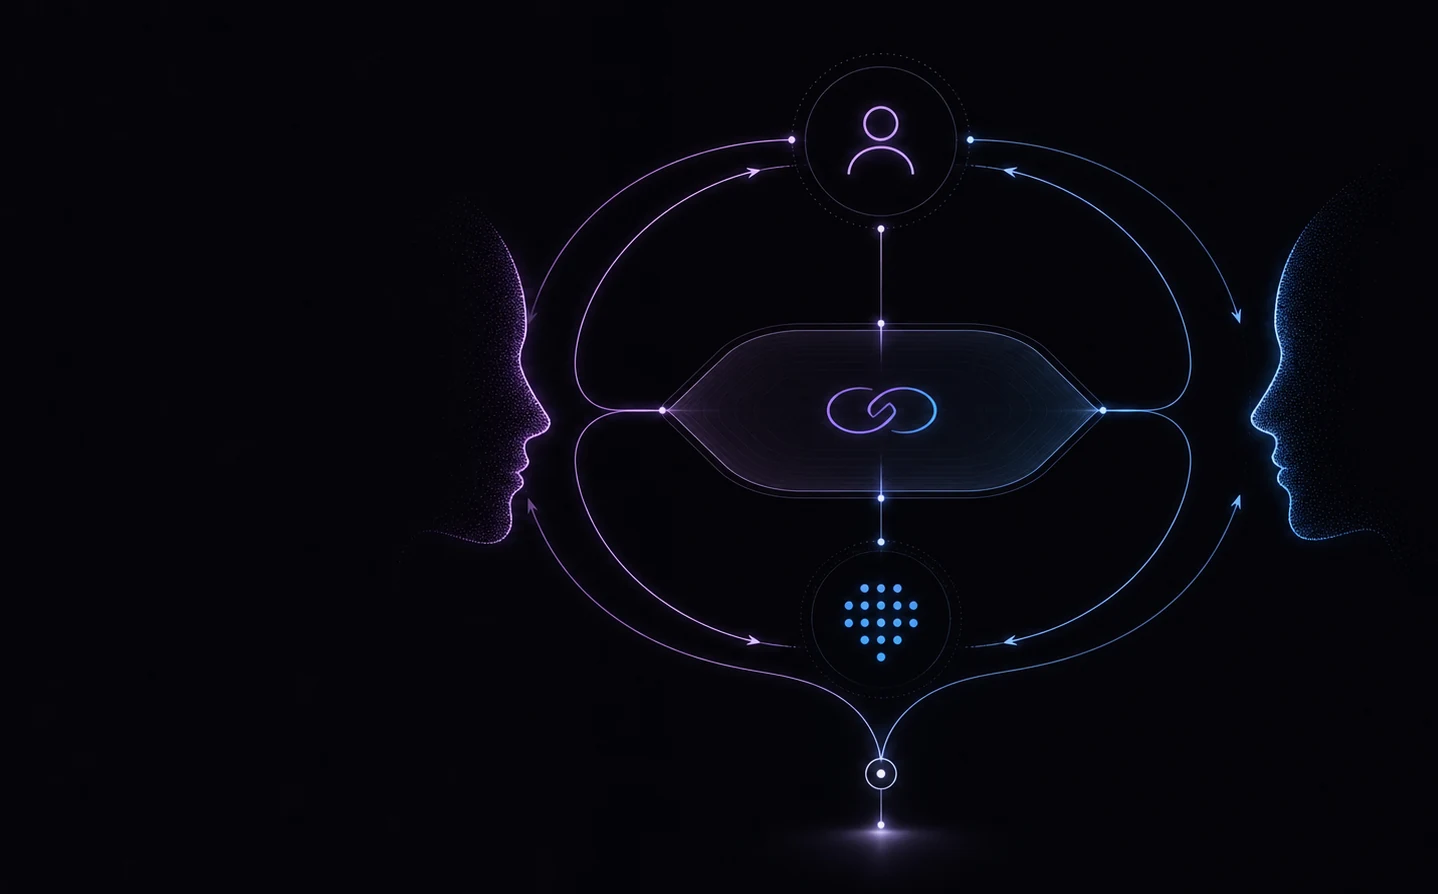
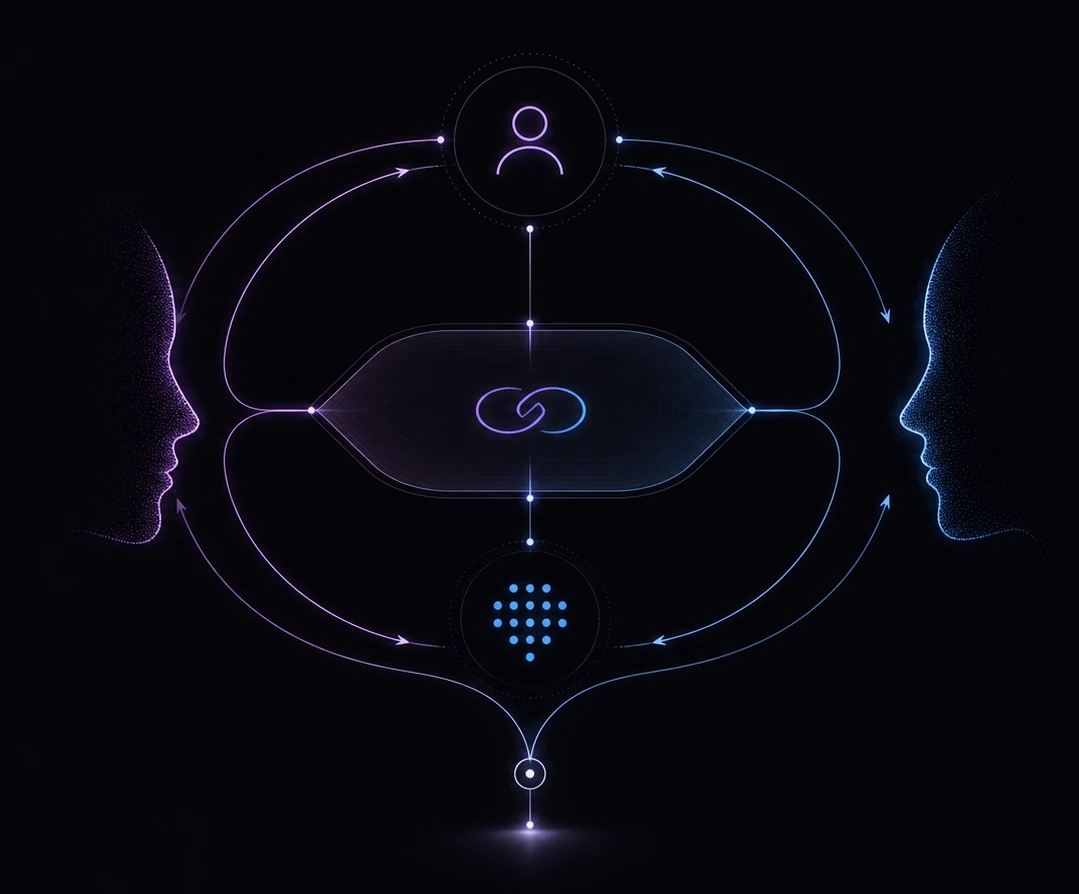
Fix crop asymmetry: left face starts at ~36%, not the ~20% I estimated
My earlier crop bounds (12%-98%) assumed the left face began around 20%,
but objective measurement (per-column max brightness, then visually
verified with bound lines drawn on the image before committing) showed
real content starts at 35.8% -- I'd left a huge unnecessary margin on
the left (24 points) vs almost none on the right (2 points), exactly
matching the asymmetry reported.

Re-cropped to 33%-97.5% (verified visually first this time), all label
positions recomputed via the same affine transform. Image now fills its
panel edge to edge (1px gap = just the border) with no h1 overlap at
1792px, confirmed via DOM geometry.

diff --git a/public/styles.css b/public/styles.css
@@ -83,17 +83,17 @@ body:after{content:'';position:fixed;left:var(--mx,50vw);top:var(--my,50vh);widt
 
 /* Hero diagram: real image + real HTML labels overlaid at matching coordinates */
 .entity-orbit{position:relative;min-width:0}
-.amoris-diagram{position:relative;width:100%;aspect-ratio:1438/894;border-radius:14px;overflow:hidden;border:1px solid rgba(255,255,255,.1);box-shadow:0 0 0 1px rgba(255,255,255,.03),0 30px 80px rgba(0,0,0,.55),0 0 90px rgba(255,255,255,.05)}
+.amoris-diagram{position:relative;width:100%;aspect-ratio:1079/894;border-radius:14px;overflow:hidden;border:1px solid rgba(255,255,255,.1);box-shadow:0 0 0 1px rgba(255,255,255,.03),0 30px 80px rgba(0,0,0,.55),0 0 90px rgba(255,255,255,.05)}
 .amoris-diagram picture,.amoris-diagram img{display:block;width:100%;height:100%;object-fit:contain}
 .diagram-label{position:absolute;font-family:var(--mono);text-transform:uppercase;letter-spacing:.1em;color:var(--text);text-align:center;transform:translate(-50%,-50%);white-space:nowrap;pointer-events:none;background:rgba(6,6,7,.82);border-radius:3px;padding:3px 7px;backdrop-filter:blur(2px)}
-.label-human{left:65.35%;top:3.8%;font-size:0.72rem;font-weight:600}
-.label-ai-systems{left:65.35%;top:73.3%;font-size:0.72rem;font-weight:600}
-.label-core-pill{position:absolute;left:65.1%;top:41.6%;transform:translate(-50%,-50%);width:44%;background:rgba(6,6,8,.9);border-radius:16px;padding:8px 10px;text-align:center;pointer-events:none}
+.label-human{left:54.6%;top:3.8%;font-size:0.72rem;font-weight:600}
+.label-ai-systems{left:54.6%;top:73.3%;font-size:0.72rem;font-weight:600}
+.label-core-pill{position:absolute;left:54.3%;top:41.6%;transform:translate(-50%,-50%);width:59%;background:rgba(6,6,8,.9);border-radius:16px;padding:8px 10px;text-align:center;pointer-events:none}
 .label-core-title{position:static;transform:none;background:none;padding:0;font-family:var(--display);font-weight:600;text-transform:uppercase;letter-spacing:.03em;font-size:1rem;line-height:1.4;color:var(--ink);white-space:normal;display:block}
 .label-core-sub{position:static;transform:none;background:none;padding:0;margin-top:5px;font-size:0.6rem;letter-spacing:.06em;text-transform:none;display:block}
-.label-human-evolves{left:38.7%;top:58.85%;font-size:0.62rem}
-.label-ai-evolves{left:89.5%;top:58.85%;font-size:0.62rem}
-.label-decisions{left:65.35%;top:94.4%;font-size:0.62rem;font-weight:600}
+.label-human-evolves{left:19.1%;top:58.85%;font-size:0.62rem}
+.label-ai-evolves{left:86.8%;top:58.85%;font-size:0.62rem}
+.label-decisions{left:54.6%;top:94.4%;font-size:0.62rem;font-weight:600}
 @media (max-width:900px){.diagram-label{font-size:0.56rem !important;padding:2px 5px}.label-core-title{font-size:0.8rem !important}.label-core-pill{width:42%}}
 @media (max-width:680px){.label-human-evolves,.label-ai-evolves{display:none}}
 

diff --git a/src/components/AmorisDiagram.jsx b/src/components/AmorisDiagram.jsx
@@ -9,7 +9,7 @@ export default function AmorisDiagram() {
         <img
           src="/assets/amoris-interaction-diagram.jpg"
           alt=""
-          width="1438"
+          width="1079"
           height="894"
           loading="eager"
         />
